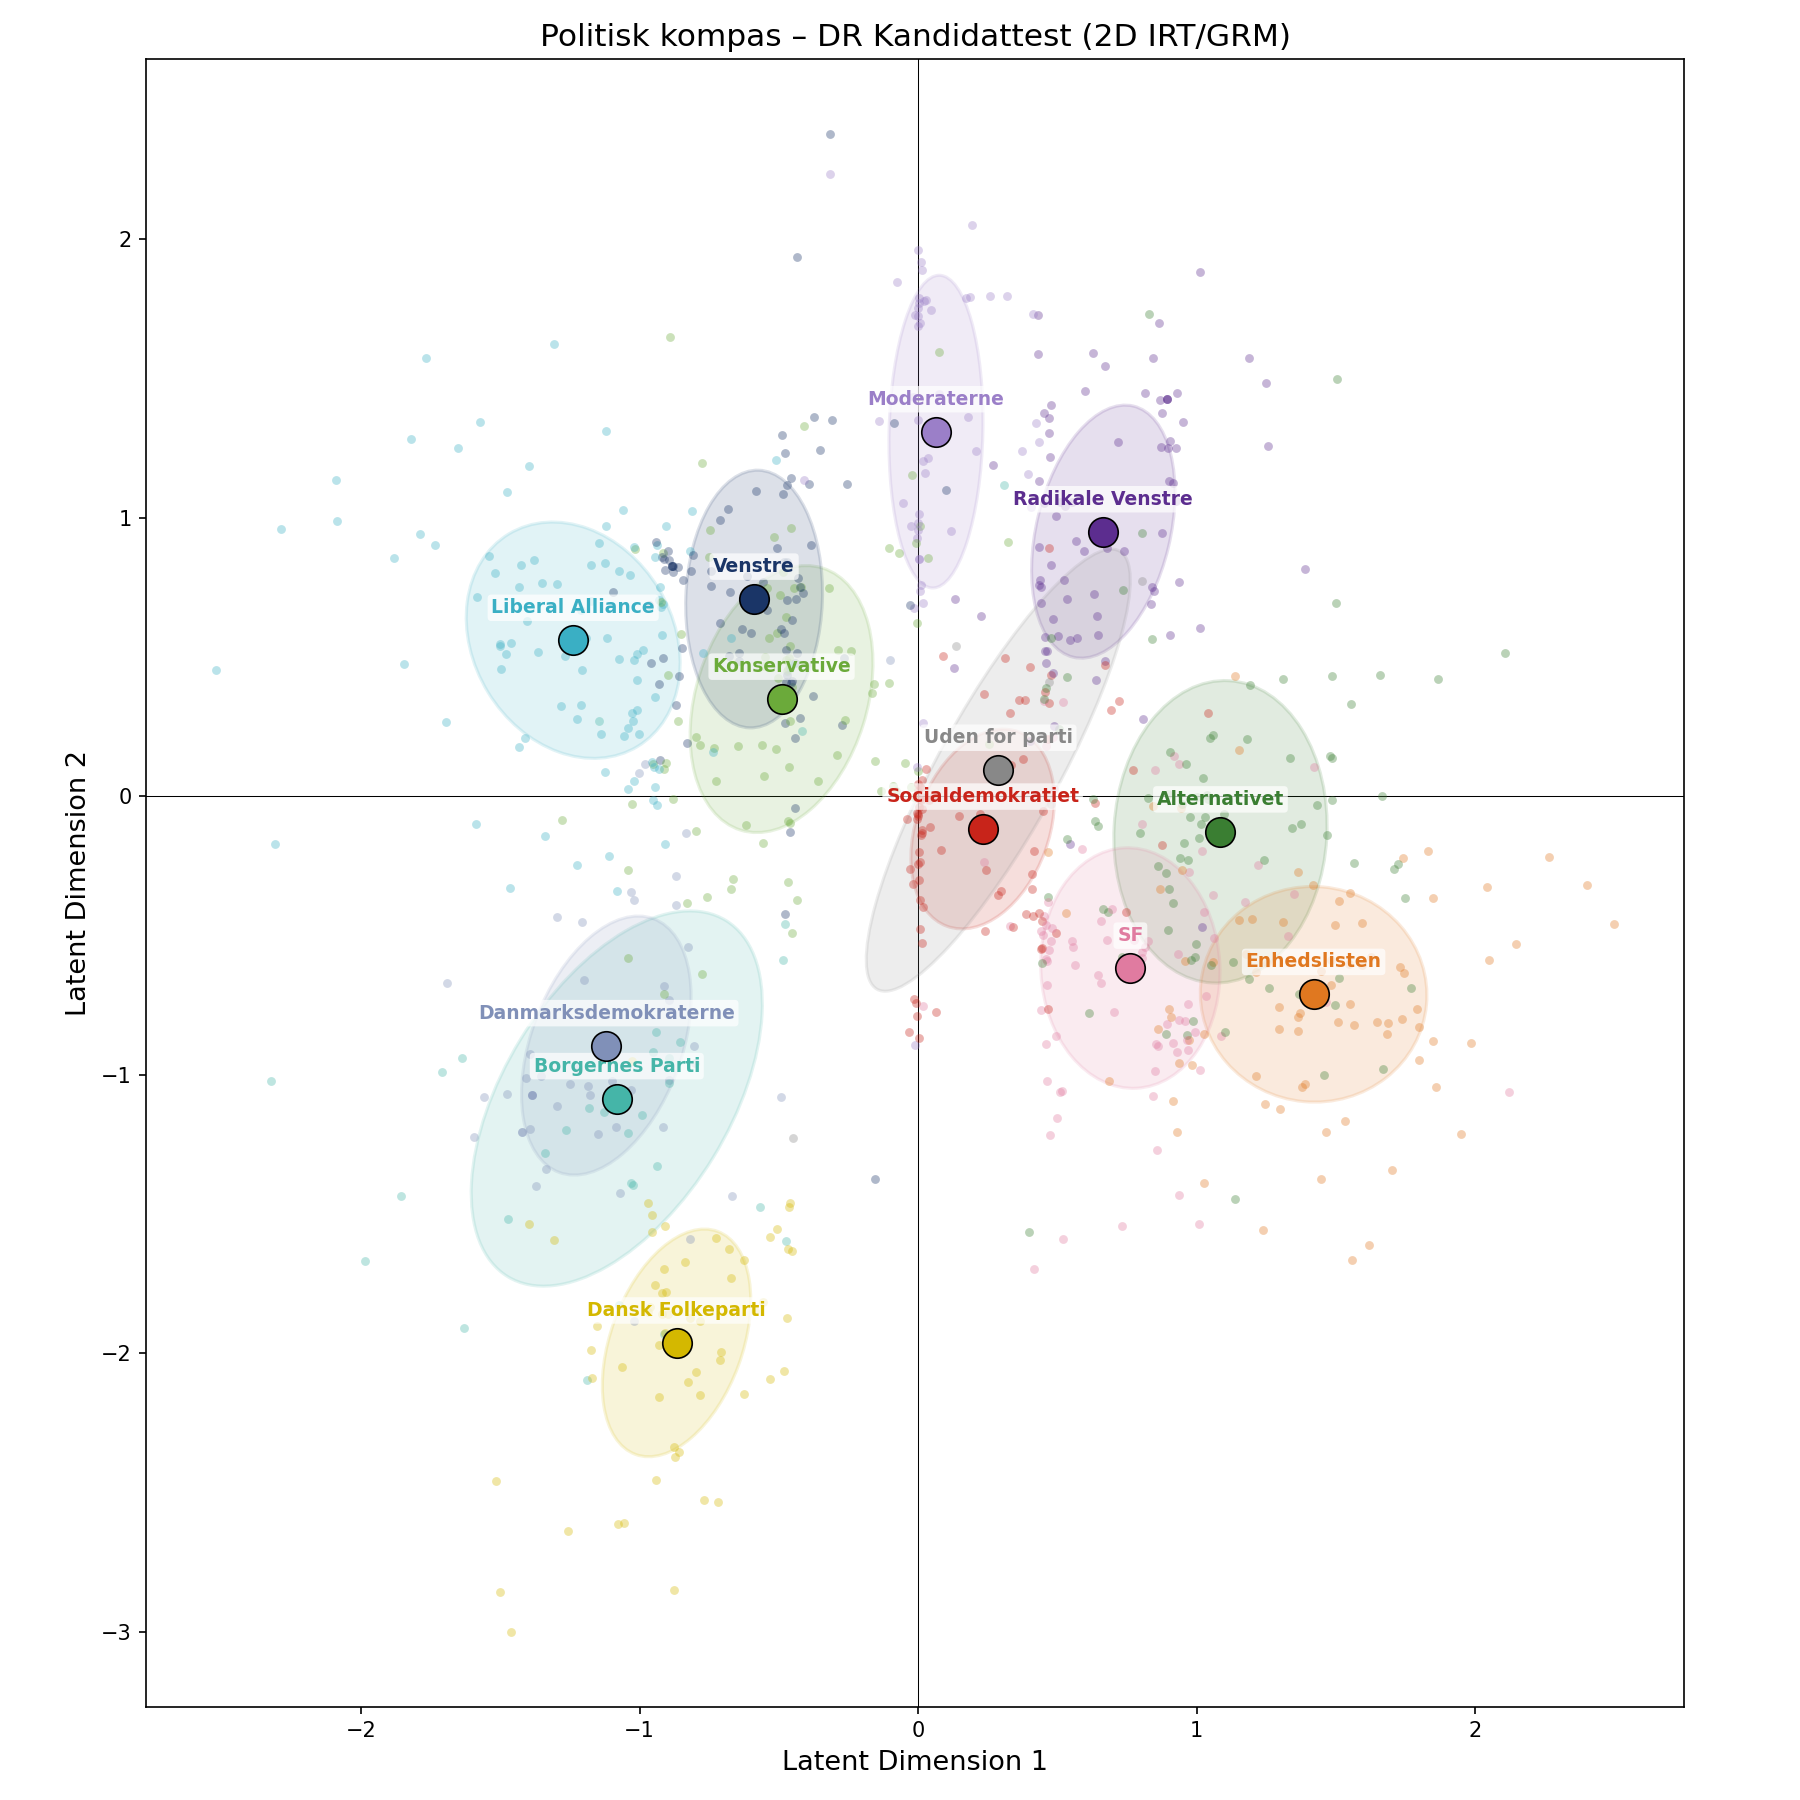
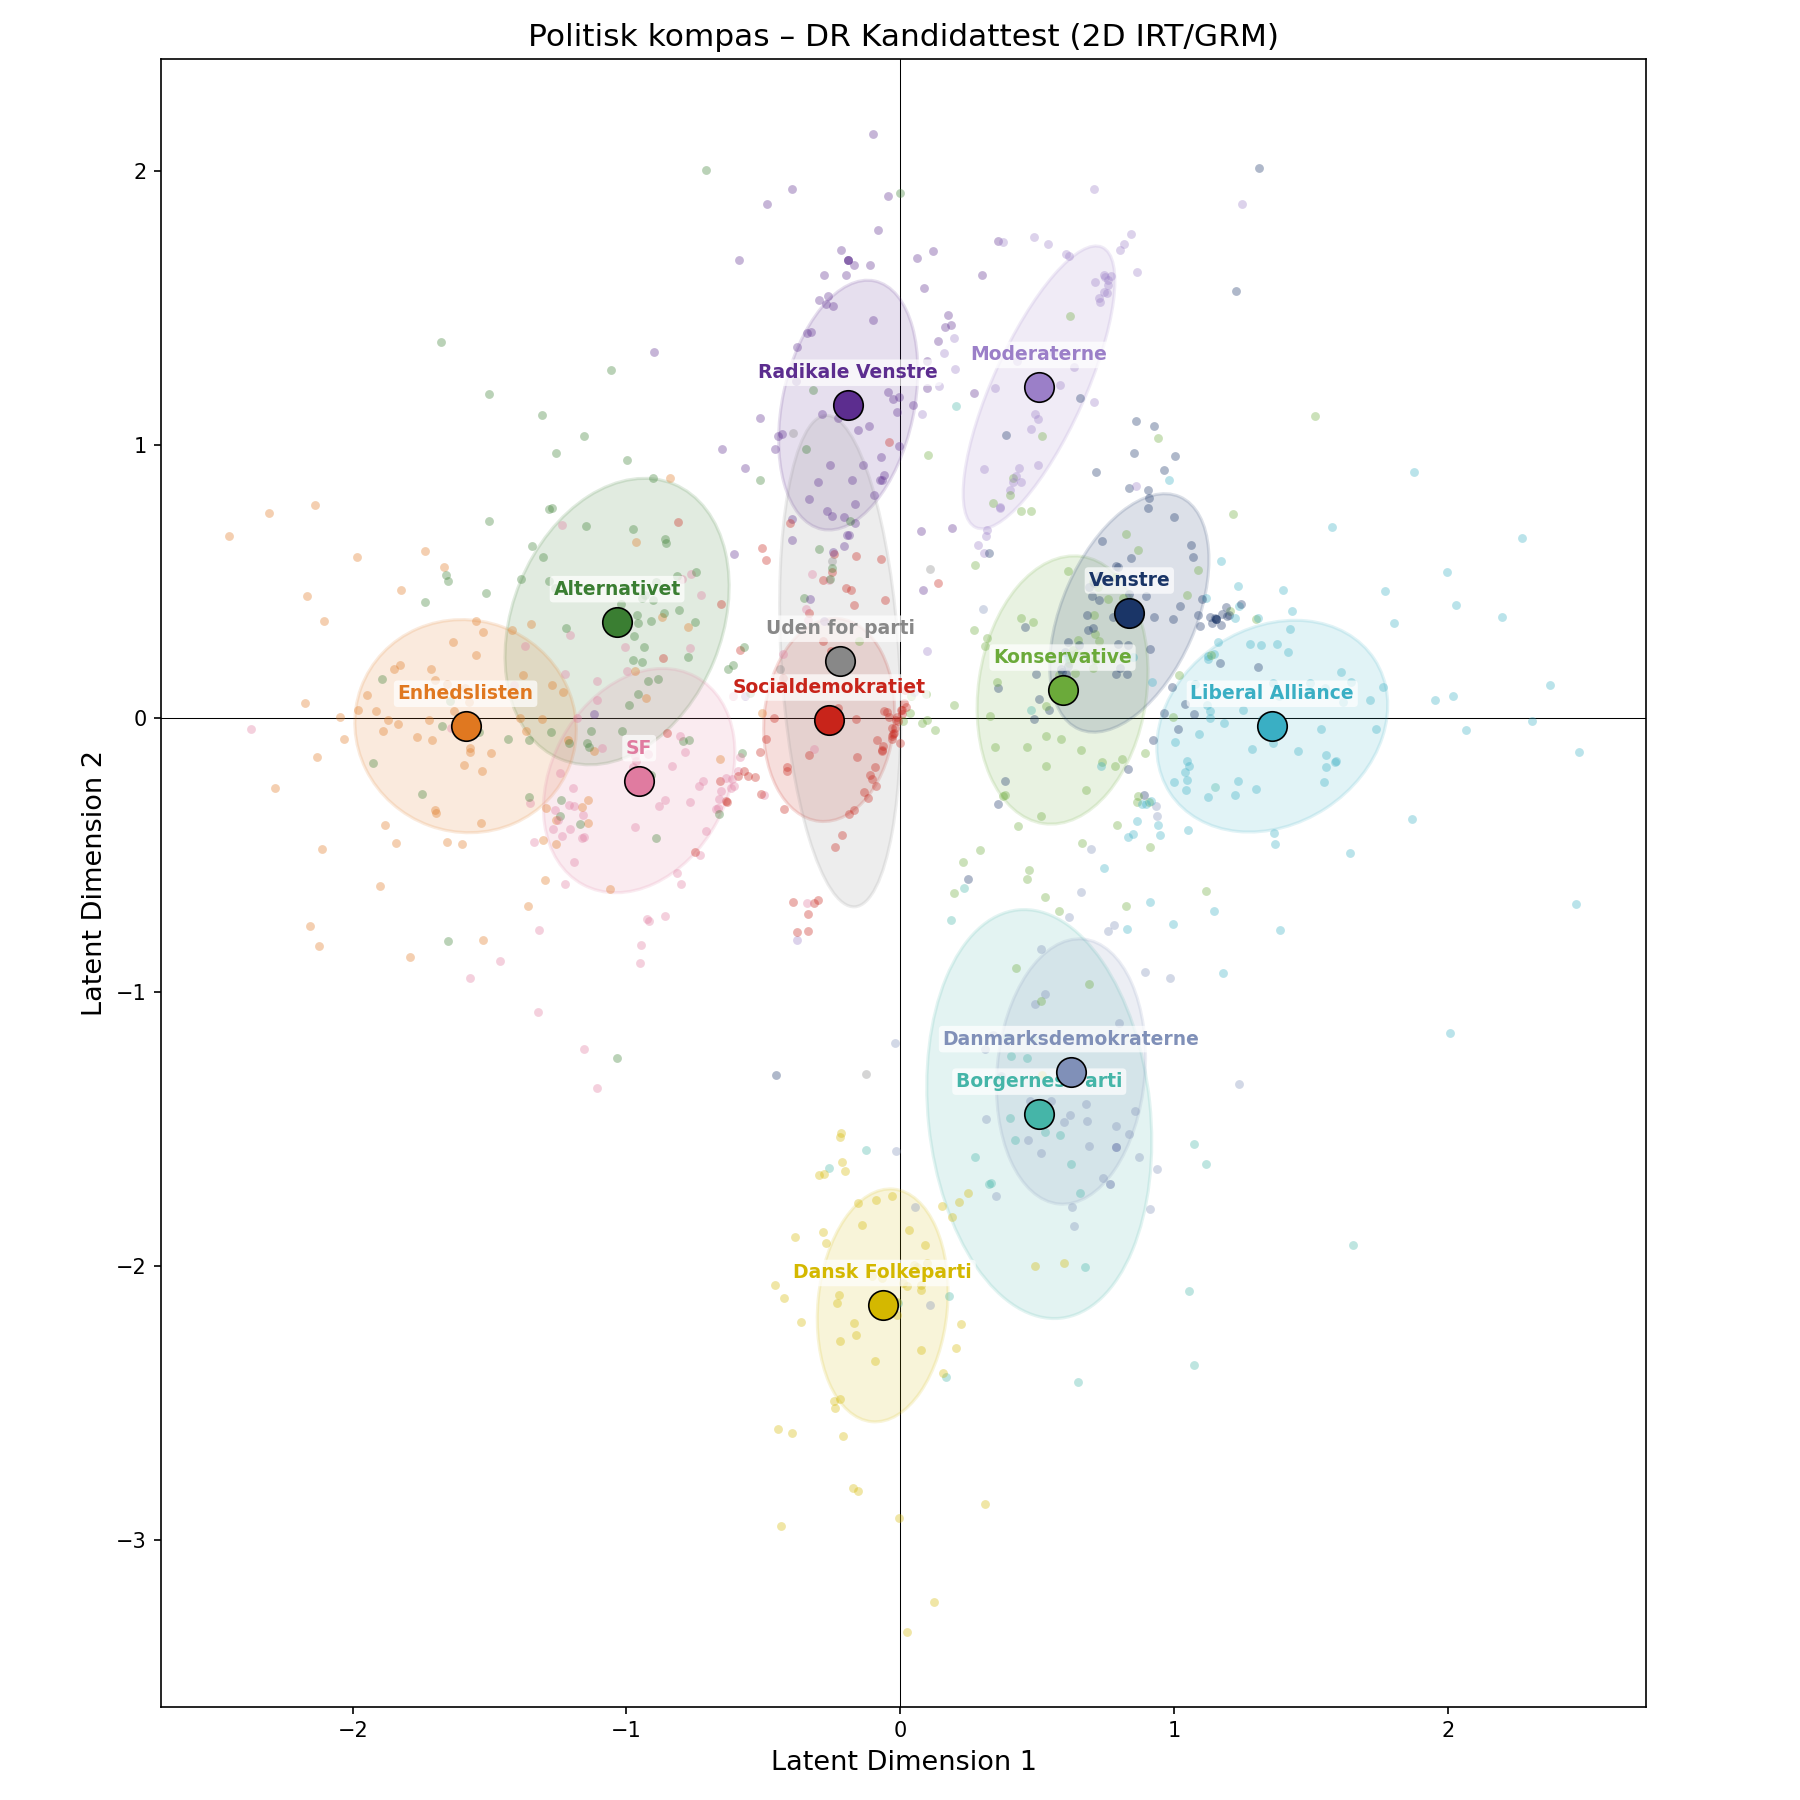
Rotate compass to conventional axes (left-right × social-liberal/nationalist)

diff --git a/plot.py b/plot.py
@@ -65,6 +65,31 @@ parties = [r["party"] for r in rows]
 xs = np.array([float(r["dim1"]) for r in rows])
 ys = np.array([float(r["dim2"]) for r in rows])
 
+# ── Rotate to conventional axes ───────────────────────────────────────────────
+# x-axis: Enhedslisten (left) → Liberal Alliance (right)
+# y-axis: Dansk Folkeparti (bottom) → Radikale Venstre (top)
+def party_mean(name):
+    mask = np.array([p == name for p in parties])
+    return np.array([xs[mask].mean(), ys[mask].mean()])
+
+enh = party_mean("Enhedslisten \u2013 De Rød-Grønne")
+la  = party_mean("Liberal Alliance")
+df  = party_mean("Dansk Folkeparti")
+rad = party_mean("Radikale Venstre")
+
+# New x-axis: direction from Enhedslisten to Liberal Alliance
+x_dir = la - enh
+x_dir /= np.linalg.norm(x_dir)
+# New y-axis: direction from DF to Radikale, orthogonalised against x_dir
+y_dir = rad - df
+y_dir -= np.dot(y_dir, x_dir) * x_dir
+y_dir /= np.linalg.norm(y_dir)
+
+# Rotation matrix (rows = new basis vectors)
+R = np.array([x_dir, y_dir])
+coords = R @ np.array([xs, ys])
+xs, ys = coords[0], coords[1]
+
 fig, ax = plt.subplots(figsize=(12, 12))
 
 unique_parties = sorted(set(parties))
